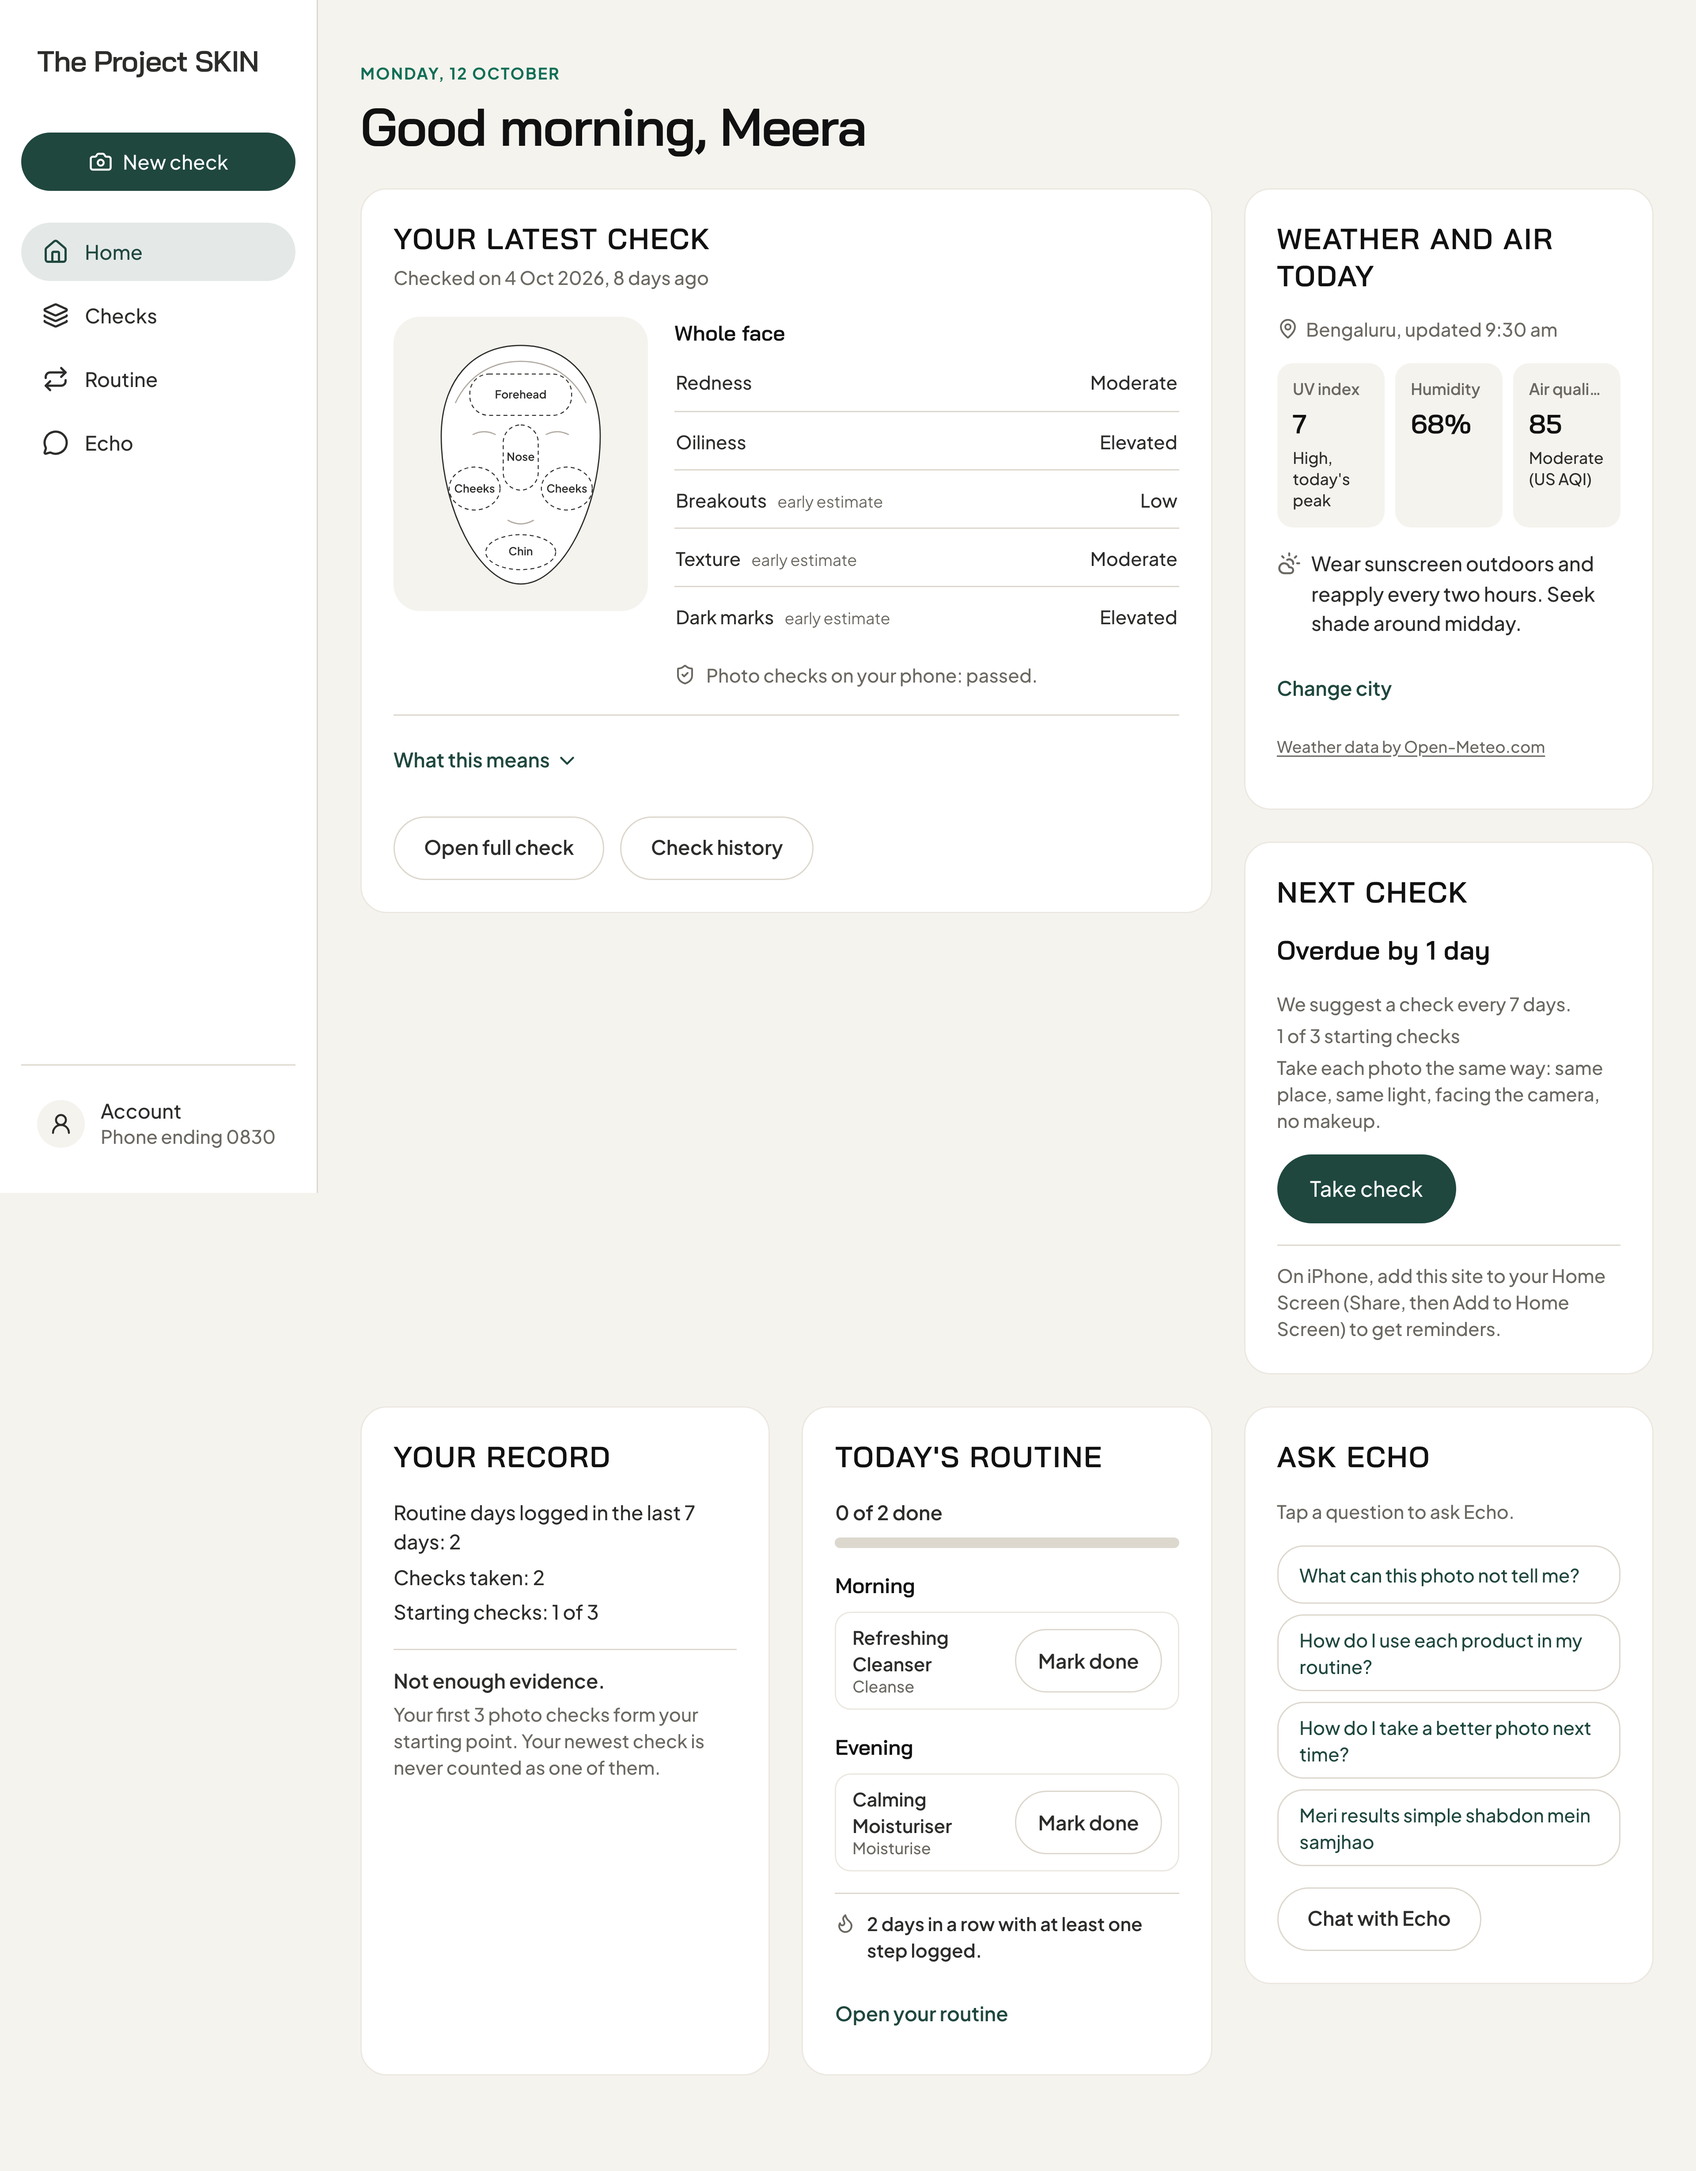
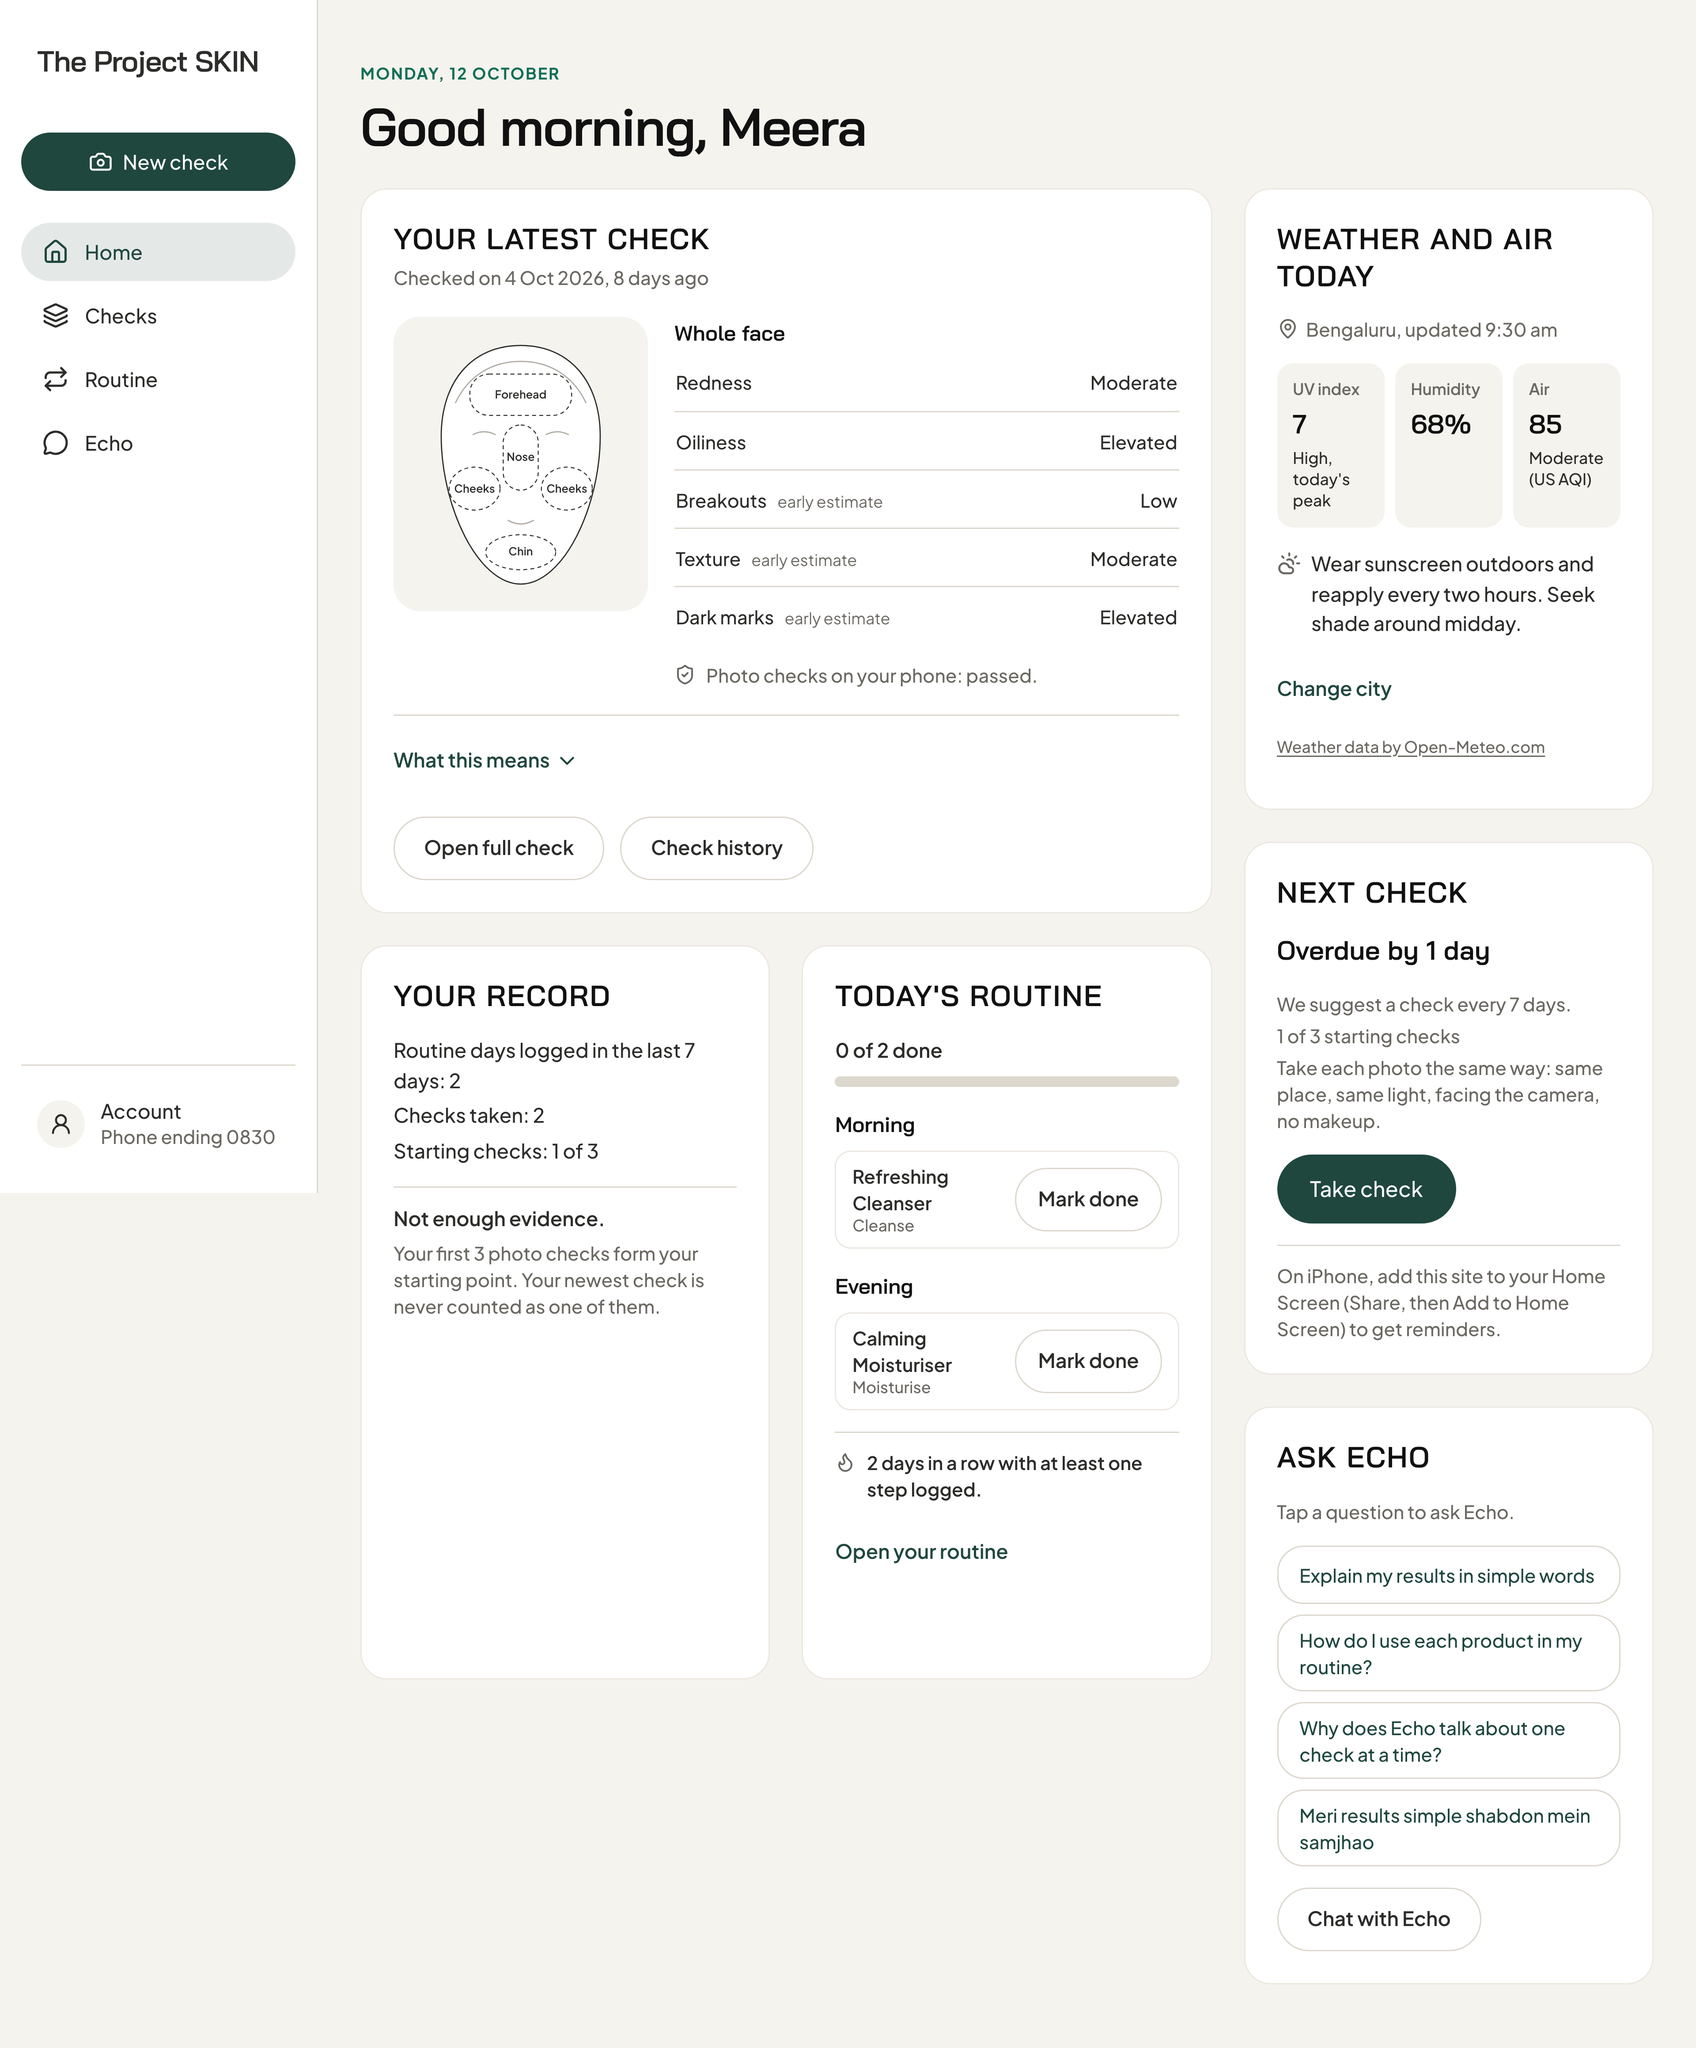
fix(home): desktop rows let the right column span, so the main column has no gap; short Air label (TD-47)
Claude-Session: https://claude.ai/code/session_01H4K9Nd3cGAtTNt8i1b7FXg

diff --git a/tests/ui-wording.test.ts b/tests/ui-wording.test.ts
@@ -116,7 +116,7 @@ describe("redesigned screens: wording (D-12, TD-25 (6))", () => {
     // they are separate cards in one column. The routine card itself shows no reading or photo.
     const css = readFileSync("app/globals.css", "utf8");
     const rows = Array.from(css.slice(css.indexOf("grid-template-areas:"), css.indexOf(";", css.indexOf("grid-template-areas:"))).matchAll(/"([a-z ]+)"/g)).map((m) => m[1]!);
-    expect(rows.length).toBe(4);
+    expect(rows.length).toBe(5);
     for (const row of rows) expect(row.includes("latest") && row.includes("routine"), row).toBe(false);
     expect(rows.findIndex((r) => r.includes("routine"))).toBeGreaterThan(rows.findIndex((r) => r.includes("latest")));
     const home = readFileSync("components/dashboard/DashboardPage.tsx", "utf8");

diff --git a/components/dashboard/HomeCards.tsx b/components/dashboard/HomeCards.tsx
@@ -399,7 +399,7 @@ export function WeatherCard({ user, settings, onSettings }: { user: User; settin
 function Tile({ label, value, note }: { label: string; value: string; note?: string }) {
   return (
     <div className="flex min-w-0 flex-col gap-1 rounded-lg bg-brand-linen p-3">
-      <dt className="truncate text-xs font-semibold text-brand-muted">{label}</dt>
+      <dt className="text-xs font-semibold text-brand-muted">{label}</dt>
       <dd className="font-display text-xl font-semibold text-brand-title">{value}</dd>
       {note && <dd className="text-xs text-brand-ink">{note}</dd>}
     </div>

diff --git a/app/globals.css b/app/globals.css
@@ -138,11 +138,14 @@
   .home-grid {
     display: grid;
     grid-template-columns: 1fr 1fr 1fr;
+    /* The right column's cards span rows, so the main column does not wait for them. */
     grid-template-areas:
       "latest latest weather"
       "latest latest next"
+      "record routine next"
       "record routine echo"
       "banner banner echo";
+    grid-template-rows: auto min-content 1fr auto auto;
     gap: 1.5rem;
     align-items: start;
   }

diff --git a/components/dashboard/homeCopy.ts b/components/dashboard/homeCopy.ts
@@ -64,7 +64,7 @@ export const HOME_COPY = {
     uvNote: (category: string) => `${category}, today's peak`,
     humidity: "Humidity",
     humidityValue: (n: number) => `${Math.round(n)}%`,
-    air: "Air quality",
+    air: "Air",
     airNote: (category: string) => `${category} (US AQI)`,
     why: "See the UV index, humidity and air quality for your city, to plan sunscreen and time outdoors.",
     useLocation: "Use my location",
